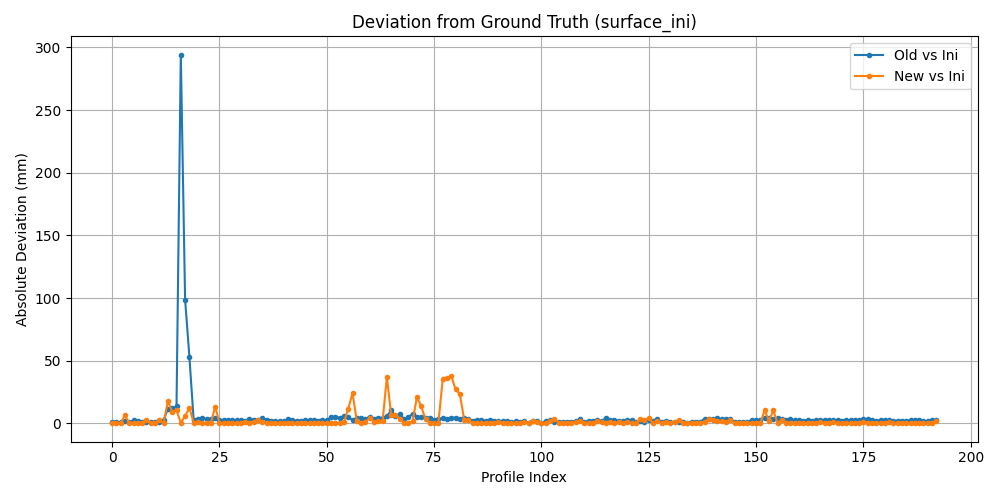
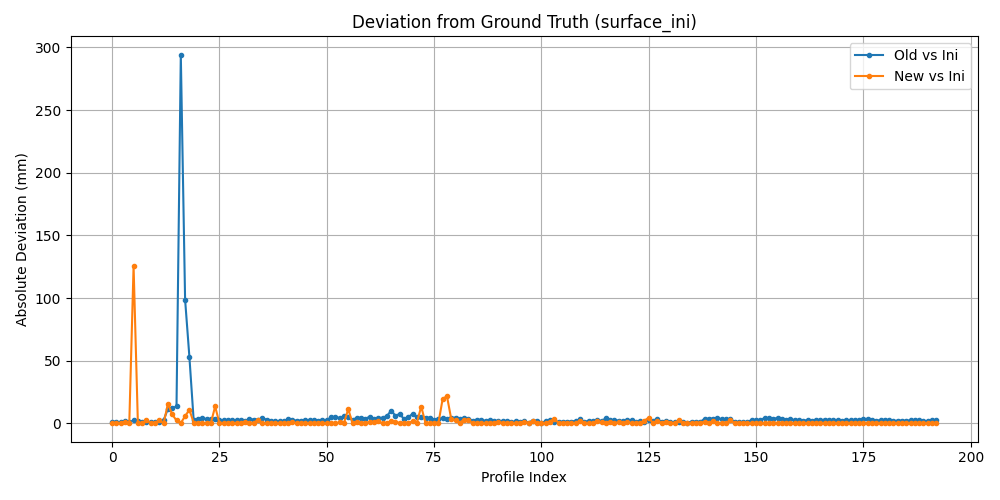
trying new method to find early std not done yet but a bit better

Changed region(s): [[0.341, 0.75, 0.465, 0.87], [0.124, 0.57, 0.217, 0.87], [0.713, 0.81, 0.775, 0.87]]

diff --git a/code_SMP/detect_surface.py b/code_SMP/detect_surface.py
@@ -57,7 +57,32 @@ def detect_surface(df, name):
     # method: take STD of the 1st to 2nd cm -maybe try smaller range a bit earlier
     # assumption I: the first two mm are always an air measurement
     # assumption II: 1st mm is excluded in order to ignore the starting and possible disturbances
-    early_std = np.nanstd(grad[2500:5000])
+    #early_std = np.nanstd(grad[2500:5000])
+    #New method to find air std
+    # Parameters for rolling window
+    window_length_mm = 10.0  # length of rolling window in mm
+    max_scan_mm = 100.0      # scan only first 100mm (10cm) of measurement
+    resolution = 0.00413223123177886
+
+    window_size = int(window_length_mm / resolution)
+
+    # Initialize variables to track lowest std
+    min_std = np.inf
+    best_std = None
+
+    # Loop over indices in the first 10cm
+    for start_idx in range(0, len(grad) - window_size):
+        if distance[start_idx] > (distance[0] + max_scan_mm):
+            break
+        window_grad = grad[start_idx : start_idx + window_size]
+        s = np.std(window_grad)
+        if s < min_std:
+            min_std = s
+            best_std = s
+
+    # Use the smallest std found in any 1cm window in the first 10cm
+    early_std = best_std
+
     threshold = 5 * early_std
 
     surface = None 

diff --git a/additional_code/tryingsurfacedetection.py b/additional_code/tryingsurfacedetection.py
@@ -12,7 +12,7 @@ from code_SMP.detect_surface import detect_surface
 
 def append_run_information(info_text, scores, target_file=Path("additional_code/test_data3/run_summary.txt")):
 
-    content = f"{info_text}\nScores:\n{scores}\n"
+    content = f"\n\n--------------------------------------\n\{info_text}\nScores:\n{scores}\n"
 
     # Check if info_text already exists in file
     if target_file.exists():
@@ -131,7 +131,7 @@ if surface_ini is not None:
         rmse_old = mean_squared_error(surface_ini_all, surface_old_all, squared=False)
 
         # Change here for different parameter runs
-        info_text = (f"Run with moving linear regression and threshold finding with\n early_std = np.nanstd(grad[2500:5000])\n threshold = 5 * early_std\n")
+        info_text = (f"Run with moving linear regression and threshold finding with\n early_std over rolling window 1mm\n threshold = 5 * early_std\n")
 
         # Input scores
         scores = (
